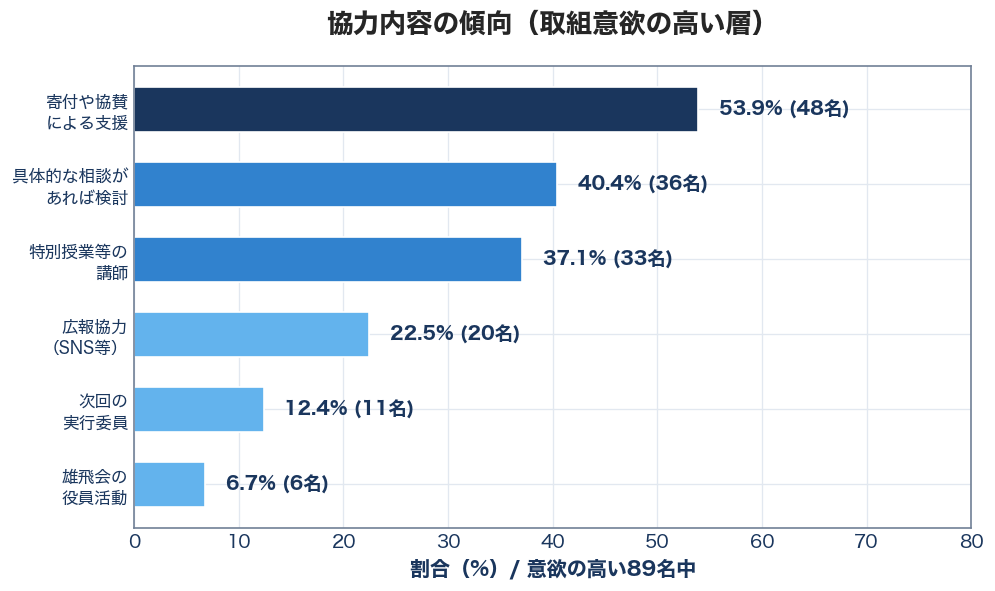
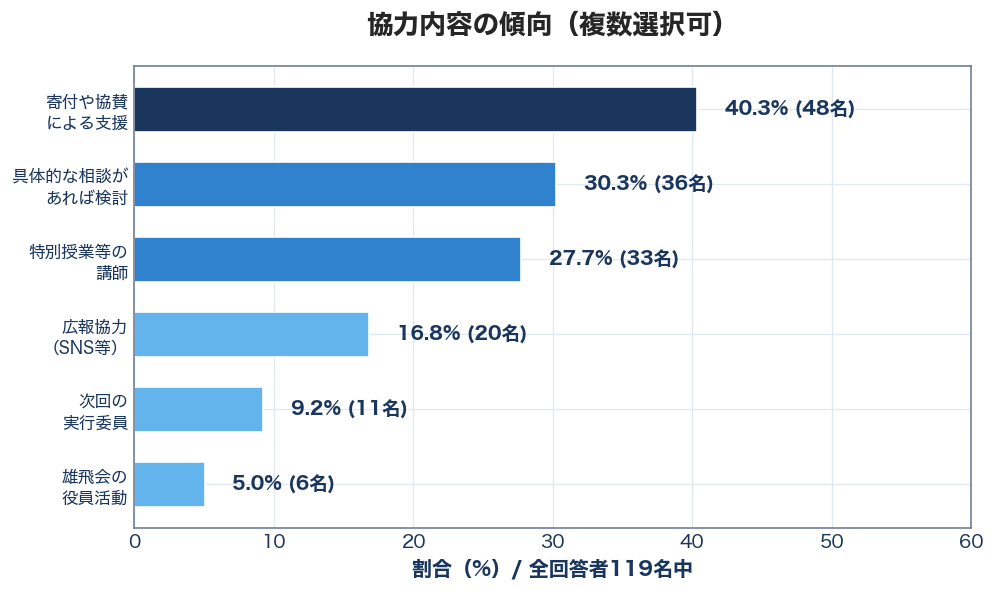
fix: グラフの分母を全回答者119名に統一しレポートと整合性を確保
- cooperation_willingness: 分母を89名→119名に修正
- information_source: 円グラフの表示を構成比→到達率に修正
- desired_programs: 分母を119名に修正、キーワード検索を厳密化
- non_participation_reasons: 分母を119名に修正
- opening_conditions: ハードコード値を実データからの動的計算に変更

diff --git a/scripts/generate_charts_integrated.py b/scripts/generate_charts_integrated.py
@@ -571,7 +571,7 @@ def chart_information_source(df):
 
     print(f"  情報入手経路の列: {info_col[0][:50]}...")
     info_data = df[info_col[0]].dropna()
-    total = len(info_data)
+    total = len(df)  # 分母は全回答者数（119名）
 
     # 各選択肢のカウント（複数回答対応）
     sources = {
@@ -622,14 +622,16 @@ def chart_information_source(df):
         percentages,
         labels=labels,
         colors=colors,
-        autopct='%1.1f%%',
+        autopct='',
         startangle=90,
         pctdistance=0.75,
         labeldistance=1.15,
         textprops={'fontsize': 10}
     )
 
-    for autotext in autotexts:
+    # 到達率（119名に対する割合）をそのまま表示
+    for i, autotext in enumerate(autotexts):
+        autotext.set_text(f'{percentages[i]:.1f}%')
         autotext.set_color('white')
         autotext.set_fontweight('bold')
 
@@ -654,16 +656,16 @@ def chart_desired_programs(df):
         return
 
     program_data = df[program_col[0]].dropna()
-    total = len(program_data)
+    total = len(df)  # 分母は全回答者数（119名）
 
-    # 各選択肢のカウント
+    # 各選択肢のカウント（厳密なキーワードで誤カウントを防止）
     programs_keywords = {
-        '校歌斉唱\n（芸術科合唱つき）': ['校歌', '斉唱'],
-        '思い出ビデオ\n・スライドショー': ['ビデオ', 'スライド', '思い出'],
-        '学科・専門分野別\n交流コーナー': ['学科', '専門分野', '交流コーナー'],
-        '在校生の\n活動紹介': ['在校生', '活動紹介'],
-        '卒業生有志の\n音楽・パフォーマンス': ['音楽', 'パフォーマンス', '有志'],
-        'スマホ参加型\n企画（クイズ等）': ['スマホ', 'クイズ', '参加型'],
+        '校歌斉唱\n（芸術科合唱つき）': ['校歌斉唱'],
+        '思い出ビデオ\n・スライドショー': ['スライドショー・思い出ビデオ', '当時のスライドショー'],
+        '学科・専門分野別\n交流コーナー': ['学科・専門分野ごとの交流'],
+        '在校生の\n活動紹介': ['在校生の活動紹介'],
+        '卒業生有志の\n音楽・パフォーマンス': ['卒業生有志による音楽'],
+        'スマホ参加型\n企画（クイズ等）': ['スマホを活用した参加型'],
     }
 
     programs_count = {}
@@ -714,7 +716,7 @@ def chart_non_participation_reasons(df):
         return
 
     reason_data = df[reason_col[0]].dropna()
-    total = len(reason_data)
+    total = len(df)  # 分母は全回答者数（119名）
 
     reasons_keywords = {
         '仕事の都合': ['仕事', '業務', '勤務'],
@@ -781,17 +783,20 @@ def chart_opening_conditions(df):
     time_col = [c for c in df.columns if '時期' in c]
     day_col = [c for c in df.columns if '曜日' in c]
 
+    # 分母は全回答者数（119名）
+    total = len(df)
+
     # 開催頻度
     if freq_col:
         freq_data = df[freq_col[0]].dropna()
-        total = len(freq_data)
         freq_counts = {
             '5年に1回': sum('5年' in str(x) for x in freq_data),
             '3年に1回': sum('3年' in str(x) for x in freq_data),
             '毎年': sum('毎年' in str(x) or '1年' in str(x) for x in freq_data),
             'その他': 0,
         }
-        freq_counts['その他'] = total - sum(freq_counts.values())
+        matched = sum(freq_counts.values())
+        freq_counts['その他'] = len(freq_data) - matched
         freq_labels = list(freq_counts.keys())
         freq_sizes = [v / total * 100 for v in freq_counts.values()]
     else:
@@ -807,9 +812,22 @@ def chart_opening_conditions(df):
         autotext.set_fontweight('bold')
     axes[0].set_title('開催頻度', fontsize=12, fontweight='bold')
 
-    # 開催時期
-    time_labels = ['年末年始', '夏休み', 'GW', 'その他']
-    time_sizes = [81.4, 10.2, 5.1, 3.3]
+    # 開催時期（実データから計算）
+    if time_col:
+        time_data = df[time_col[0]].dropna()
+        time_counts = {
+            '年末年始': sum('年末' in str(x) or '年始' in str(x) for x in time_data),
+            '夏休み': sum('夏' in str(x) for x in time_data),
+            'GW': sum('GW' in str(x) or 'ゴールデン' in str(x) for x in time_data),
+            'その他': 0,
+        }
+        matched = sum(time_counts.values())
+        time_counts['その他'] = len(time_data) - matched
+        time_labels = list(time_counts.keys())
+        time_sizes = [v / total * 100 for v in time_counts.values()]
+    else:
+        time_labels = ['年末年始', '夏休み', 'GW', 'その他']
+        time_sizes = [84.0, 10.1, 5.0, 0.8]
     wedges1, texts1, autotexts1 = axes[1].pie(
         time_sizes, labels=time_labels, autopct='%1.0f%%', startangle=90,
         colors=chart_colors, wedgeprops=dict(width=0.5, edgecolor='white'),
@@ -819,9 +837,20 @@ def chart_opening_conditions(df):
         autotext.set_fontweight('bold')
     axes[1].set_title('開催時期', fontsize=12, fontweight='bold')
 
-    # 曜日
-    day_labels = ['土曜日', '日曜日', '平日', '不問']
-    day_sizes = [33.9, 28.8, 5.1, 32.2]
+    # 曜日（実データから計算）
+    if day_col:
+        day_data = df[day_col[0]].dropna()
+        day_counts = {
+            '土曜日': sum('土曜' in str(x) for x in day_data),
+            '日曜日': sum('日曜' in str(x) for x in day_data),
+            '平日': sum('平日' in str(x) for x in day_data),
+            '不問': sum('どちらでも' in str(x) or '不問' in str(x) or 'どの曜日' in str(x) for x in day_data),
+        }
+        day_labels = list(day_counts.keys())
+        day_sizes = [v / total * 100 for v in day_counts.values()]
+    else:
+        day_labels = ['土曜日', '日曜日', '平日', '不問']
+        day_sizes = [31.9, 28.6, 5.0, 34.5]
     wedges2, texts2, autotexts2 = axes[2].pie(
         day_sizes, labels=day_labels, autopct='%1.0f%%', startangle=90,
         colors=chart_colors, wedgeprops=dict(width=0.5, edgecolor='white'),
@@ -870,29 +899,22 @@ def chart_cooperation_willingness(df):
                     break
         counts[item] = count
 
-    # 取り組み意欲の高い層（gemini_sentiment >= 4 または engagement_score >= 5）
-    if 'gemini_sentiment' in df.columns:
-        high_motivation = df[(df['gemini_sentiment'] >= 4) | (df.get('engagement_score', 0) >= 5)]
-        total_motivated = len(high_motivation)
-    else:
-        total_motivated = len(coop_data[coop_data.str.len() > 10])  # 何か選択している人
-
-    if total_motivated == 0:
-        total_motivated = 1
+    # 分母は全回答者数（レポート本文と一致させる）
+    total_respondents = len(df)
 
     # ソートして上位表示
     sorted_items = sorted(counts.items(), key=lambda x: x[1], reverse=True)
     items = [x[0] for x in sorted_items]
     count_values = [x[1] for x in sorted_items]
-    percentages = [c / total_motivated * 100 for c in count_values]
+    percentages = [c / total_respondents * 100 for c in count_values]
 
     print(f"  協力意向集計: {counts}")
-    print(f"  意欲の高い層: {total_motivated}名")
+    print(f"  全回答者数: {total_respondents}名")
 
     fig, ax = plt.subplots(figsize=(9, 5))
 
     y_pos = np.arange(len(items))
-    colors = [COLORS['primary'] if p >= 50 else COLORS['secondary'] if p >= 30 else '#63B3ED' for p in percentages]
+    colors = [COLORS['primary'] if p >= 35 else COLORS['secondary'] if p >= 20 else '#63B3ED' for p in percentages]
     bars = ax.barh(y_pos, percentages, color=colors, height=0.6, edgecolor='white')
 
     for bar, pct, cnt in zip(bars, percentages, count_values):
@@ -902,9 +924,9 @@ def chart_cooperation_willingness(df):
 
     ax.set_yticks(y_pos)
     ax.set_yticklabels(items, fontsize=10)
-    ax.set_xlim(0, 80)
-    ax.set_xlabel(f'割合（%）/ 意欲の高い{total_motivated}名中', fontsize=12, fontweight='bold')
-    ax.set_title('協力内容の傾向（取組意欲の高い層）', fontsize=16, fontweight='bold', pad=20)
+    ax.set_xlim(0, 60)
+    ax.set_xlabel(f'割合（%）/ 全回答者{total_respondents}名中', fontsize=12, fontweight='bold')
+    ax.set_title('協力内容の傾向（複数選択可）', fontsize=16, fontweight='bold', pad=20)
 
     ax.invert_yaxis()
 
